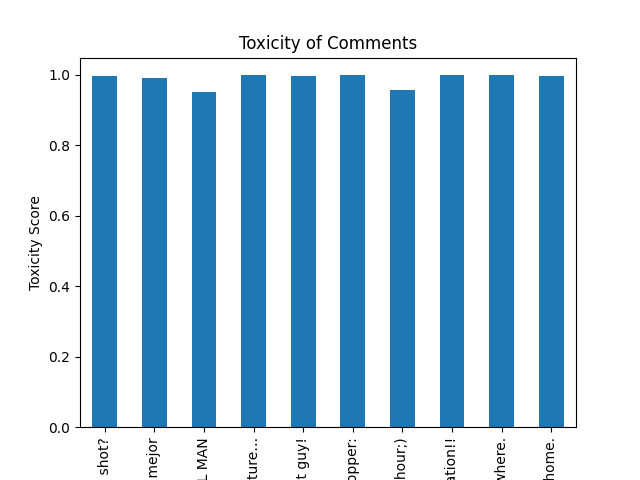
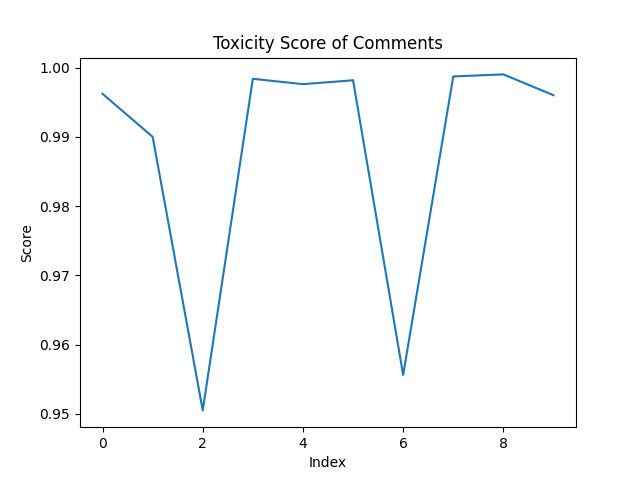
changed the prompt

diff --git a/conclude.py b/conclude.py
@@ -8,9 +8,9 @@ dotenv.load_dotenv()
 def get_conclusion(df):
     non_toxic = df[df.label == "non-toxic"]
     llm = OpenAI(api_token=os.getenv("openai_api"))
-    pandas_ai = SmartDataframe(non_toxic,config={"llm":llm})
+    pandas_ai = SmartDataframe(non_toxic.drop(columns=["comment"]),config={"llm":llm})
     #these will generate an image 
-    conclusion = pandas_ai.chat("generate a chart based on this data . the chart must explain the score of toxicity of the comment.")
+    conclusion = pandas_ai.chat("generate a chart based on this data . the chart must explain the score of toxicity of the comment. The x axe should be the index column and the y axe should be the score")
     return conclusion
 
 if __name__ == "__main__":

diff --git a/classify.py b/classify.py
@@ -30,7 +30,7 @@ def organise_comments(comments):
 
 if __name__ == "__main__":
     comments = pd.read_csv("comments.csv")
-    comments = comments["comments"].tolist()
+    comments = comments["comment"].tolist()
     df = organise_comments(comments)
-    df.to_csv("comments.csv",index=False)
+    df.to_csv("comments.csv")
 # start using openai
